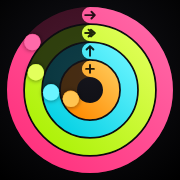
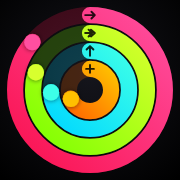
Rings: vivid colours and their arrows
The watch's own palette, a deep start running to a bright end: move red
into pink, green into lime, cyan into aqua, orange into amber. Every ring
50 px and up now carries its arrow at the top (it was only the biggest).
Water tiles and the app icon take the same colours.

Claude-Session: https://claude.ai/code/session_01GjRZ9HNsVYgsUvW5z1mvgE

diff --git a/src/components/RingSet.tsx b/src/components/RingSet.tsx
@@ -61,7 +61,7 @@ export function RingSet({
   px,
   animate = true,
   delay = 0,
-  arrows = px >= 110,
+  arrows = px >= 50,
   shadow = px >= 48,
   className,
 }: {
@@ -117,7 +117,7 @@ export function RingSet({
         return (
           <g key={i}>
             {/* The track: the ring's own colour, faint. */}
-            <circle cx={c0} cy={c0} r={radius} fill="none" stroke={r.from} strokeOpacity={0.2} strokeWidth={w} />
+            <circle cx={c0} cy={c0} r={radius} fill="none" stroke={r.from} strokeOpacity={0.24} strokeWidth={w} />
             {lap >= 1 && <circle cx={c0} cy={c0} r={radius} fill="none" stroke={grad} strokeWidth={w} />}
             {f > 0 && (rest > 0.0005 || lap === 0) && (
               <circle
@@ -136,7 +136,7 @@ export function RingSet({
             {shadow && f > 0.04 && (
               <circle cx={ex} cy={ey} r={w / 2} fill={r.to} filter={`url(#${id}s)`} />
             )}
-            {arrows && <Arrow i={i} x={c0} y={c0 - radius} size={w * 0.62} />}
+            {arrows && <Arrow i={i} x={c0} y={c0 - radius} size={w * 0.7} />}
           </g>
         );
       })}

diff --git a/src/lib/rings.ts b/src/lib/rings.ts
@@ -24,10 +24,11 @@ export interface RingDef {
 
 /** Outer to inner. */
 export const RING_DEFS: RingDef[] = [
-  { id: "cals", label: "Calories", unit: "CAL", from: "#ff2d7a", to: "#ff5ea8" },
-  { id: "protein", label: "Protein", unit: "G", from: "#b6ff00", to: "#e3ff5c" },
-  { id: "water", label: "Water", unit: "ML", from: "#00d4e8", to: "#5cf2ff" },
-  { id: "burnt", label: "Burned", unit: "CAL", from: "#ff8a00", to: "#ffc14d" },
+  // Vivid, as the watch draws them: a deep start running to a bright end.
+  { id: "cals", label: "Calories", unit: "CAL", from: "#fa114f", to: "#ff4fa0" },
+  { id: "protein", label: "Protein", unit: "G", from: "#7dff00", to: "#d8ff2e" },
+  { id: "water", label: "Water", unit: "ML", from: "#00d8ff", to: "#3dffe8" },
+  { id: "burnt", label: "Burned", unit: "CAL", from: "#ff6a00", to: "#ffc000" },
 ];
 
 /** What a day of training is meant to cost, when nothing else says. */

diff --git a/src/components/views/DashboardView.tsx b/src/components/views/DashboardView.tsx
@@ -240,7 +240,7 @@ export function DashboardView() {
                  value={macros.c} target={goals?.carbs} onClick={() => setTab("nutrition")} />
       <MacroTile key="fat" macro="f" week={weekOf("f")} top={topOf("f")} label="Fat" unit="g"
                  value={macros.f} target={goals?.fat} onClick={() => setTab("nutrition")} />
-      <Tile key="water" icon={Droplet} color="#19e3e3" label="Water" value={water ? (water / 1000).toFixed(1) : null} unit="L"
+      <Tile key="water" icon={Droplet} color="#00d8ff" label="Water" value={water ? (water / 1000).toFixed(1) : null} unit="L"
             sub={`of ${(waterGoal / 1000).toFixed(1)} L`} progress={water / waterGoal} empty="No water logged"
             week={waterWeek} goal={waterGoal / 1000}
             onClick={() => setTab("nutrition")} />

diff --git a/src/components/views/NutritionView.tsx b/src/components/views/NutritionView.tsx
@@ -440,7 +440,7 @@ export function NutritionView() {
       <Sized key="water" glance={{
           label: "Water",
           icon: Droplet,
-          color: "#19e3e3",
+          color: "#00d8ff",
           value: water > 0 ? (water / 1000).toFixed(1) : null,
           unit: "L",
           sub: `of ${((goals.water || 3500) / 1000).toFixed(1)} L`,
